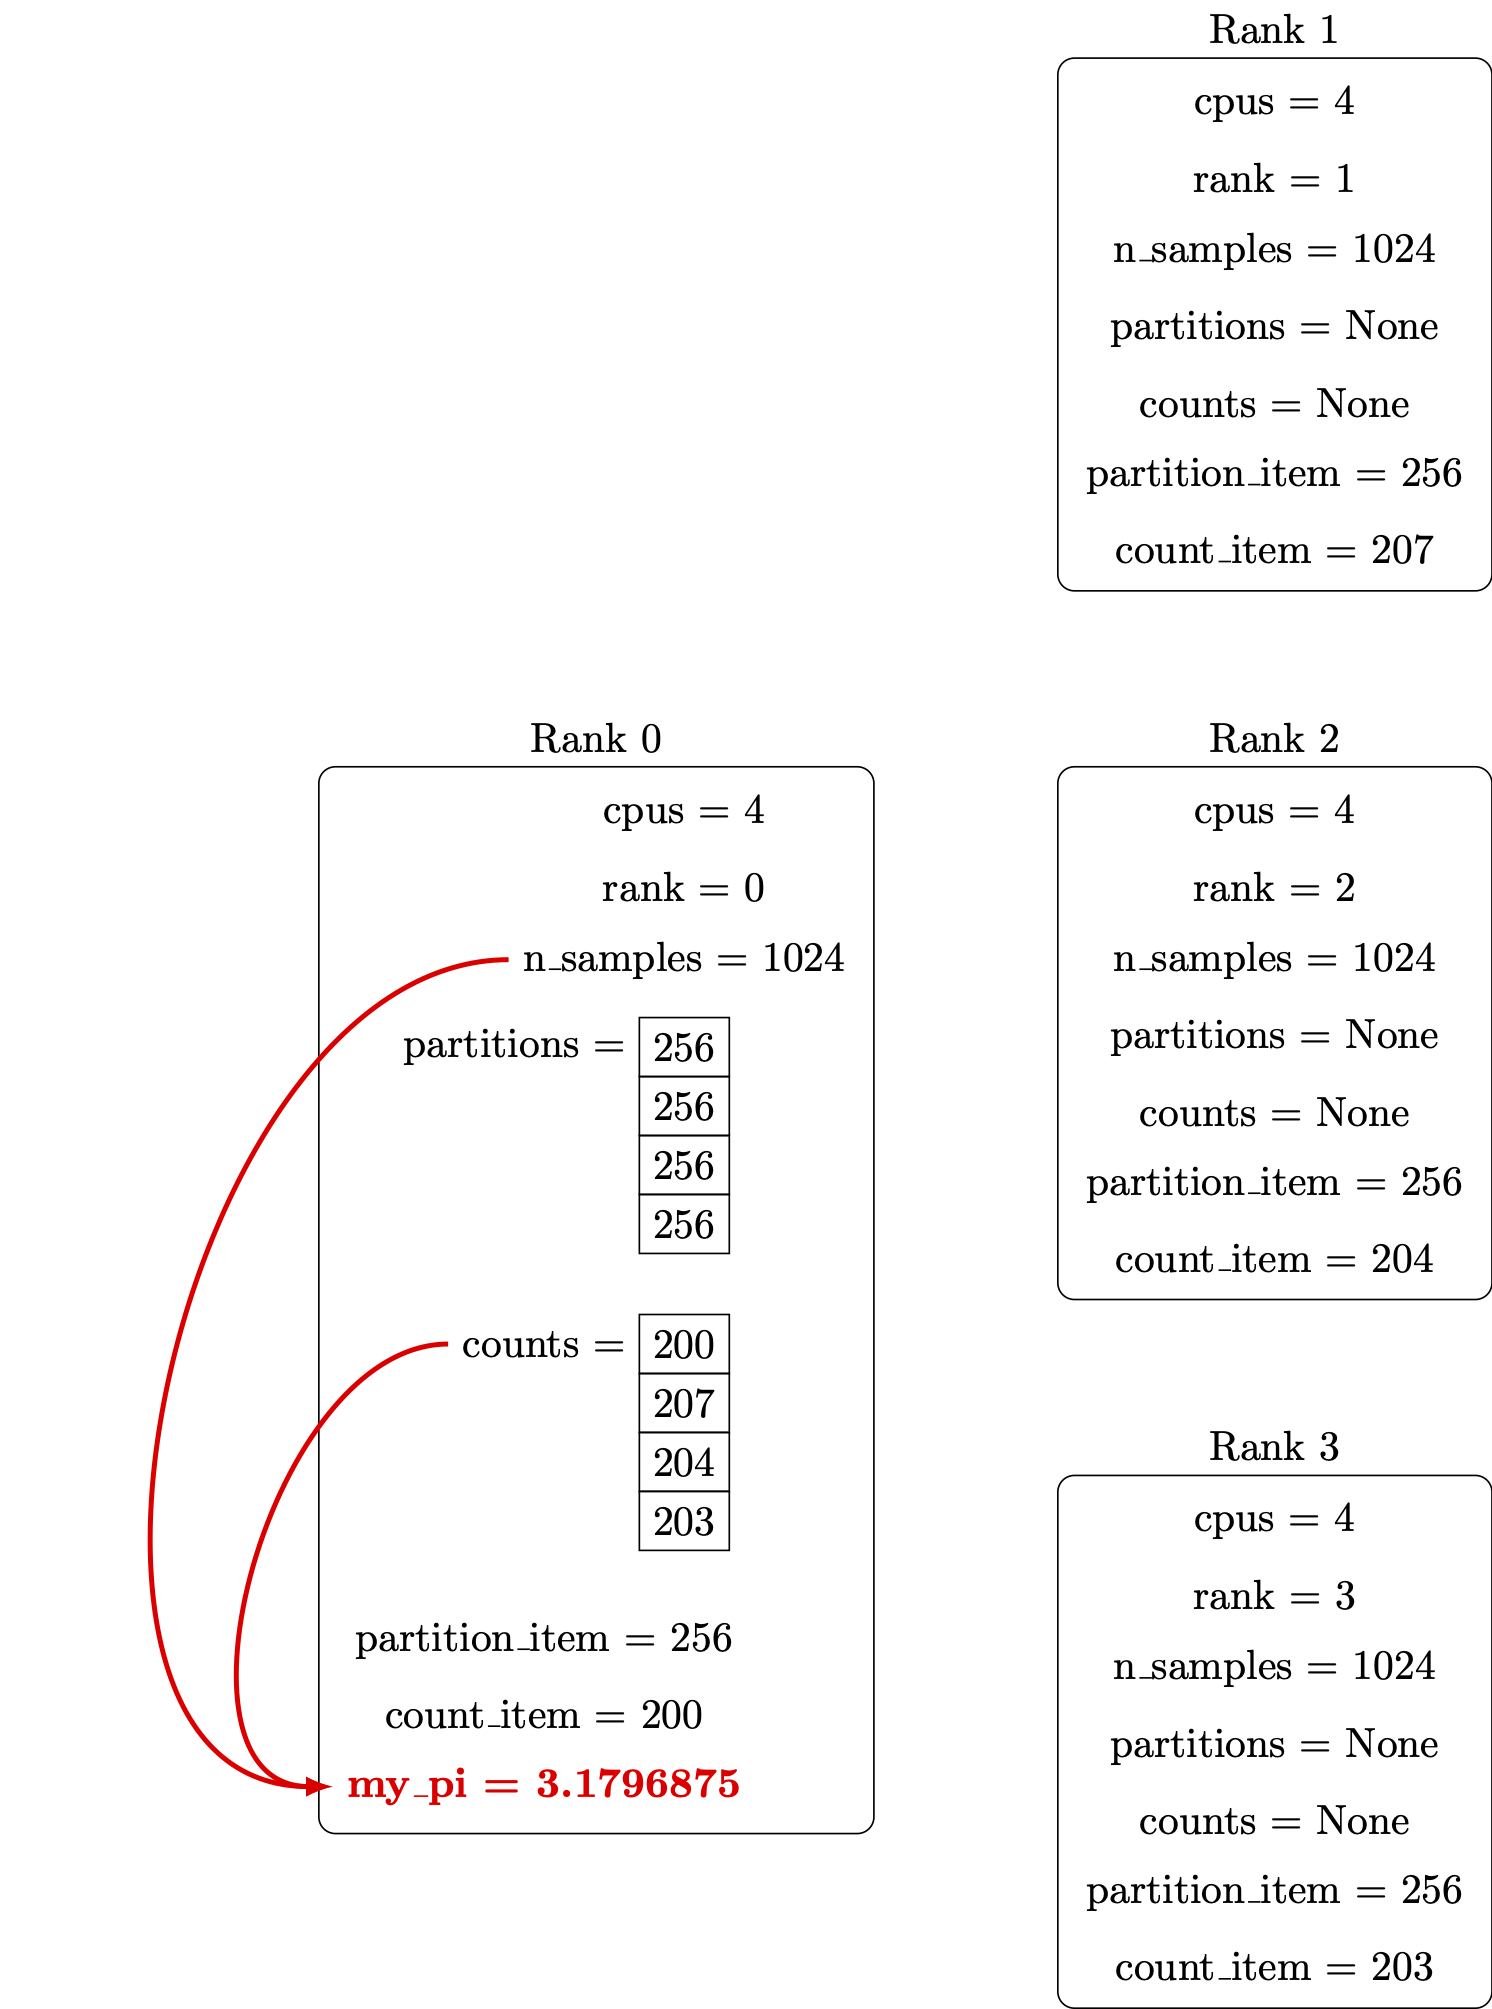
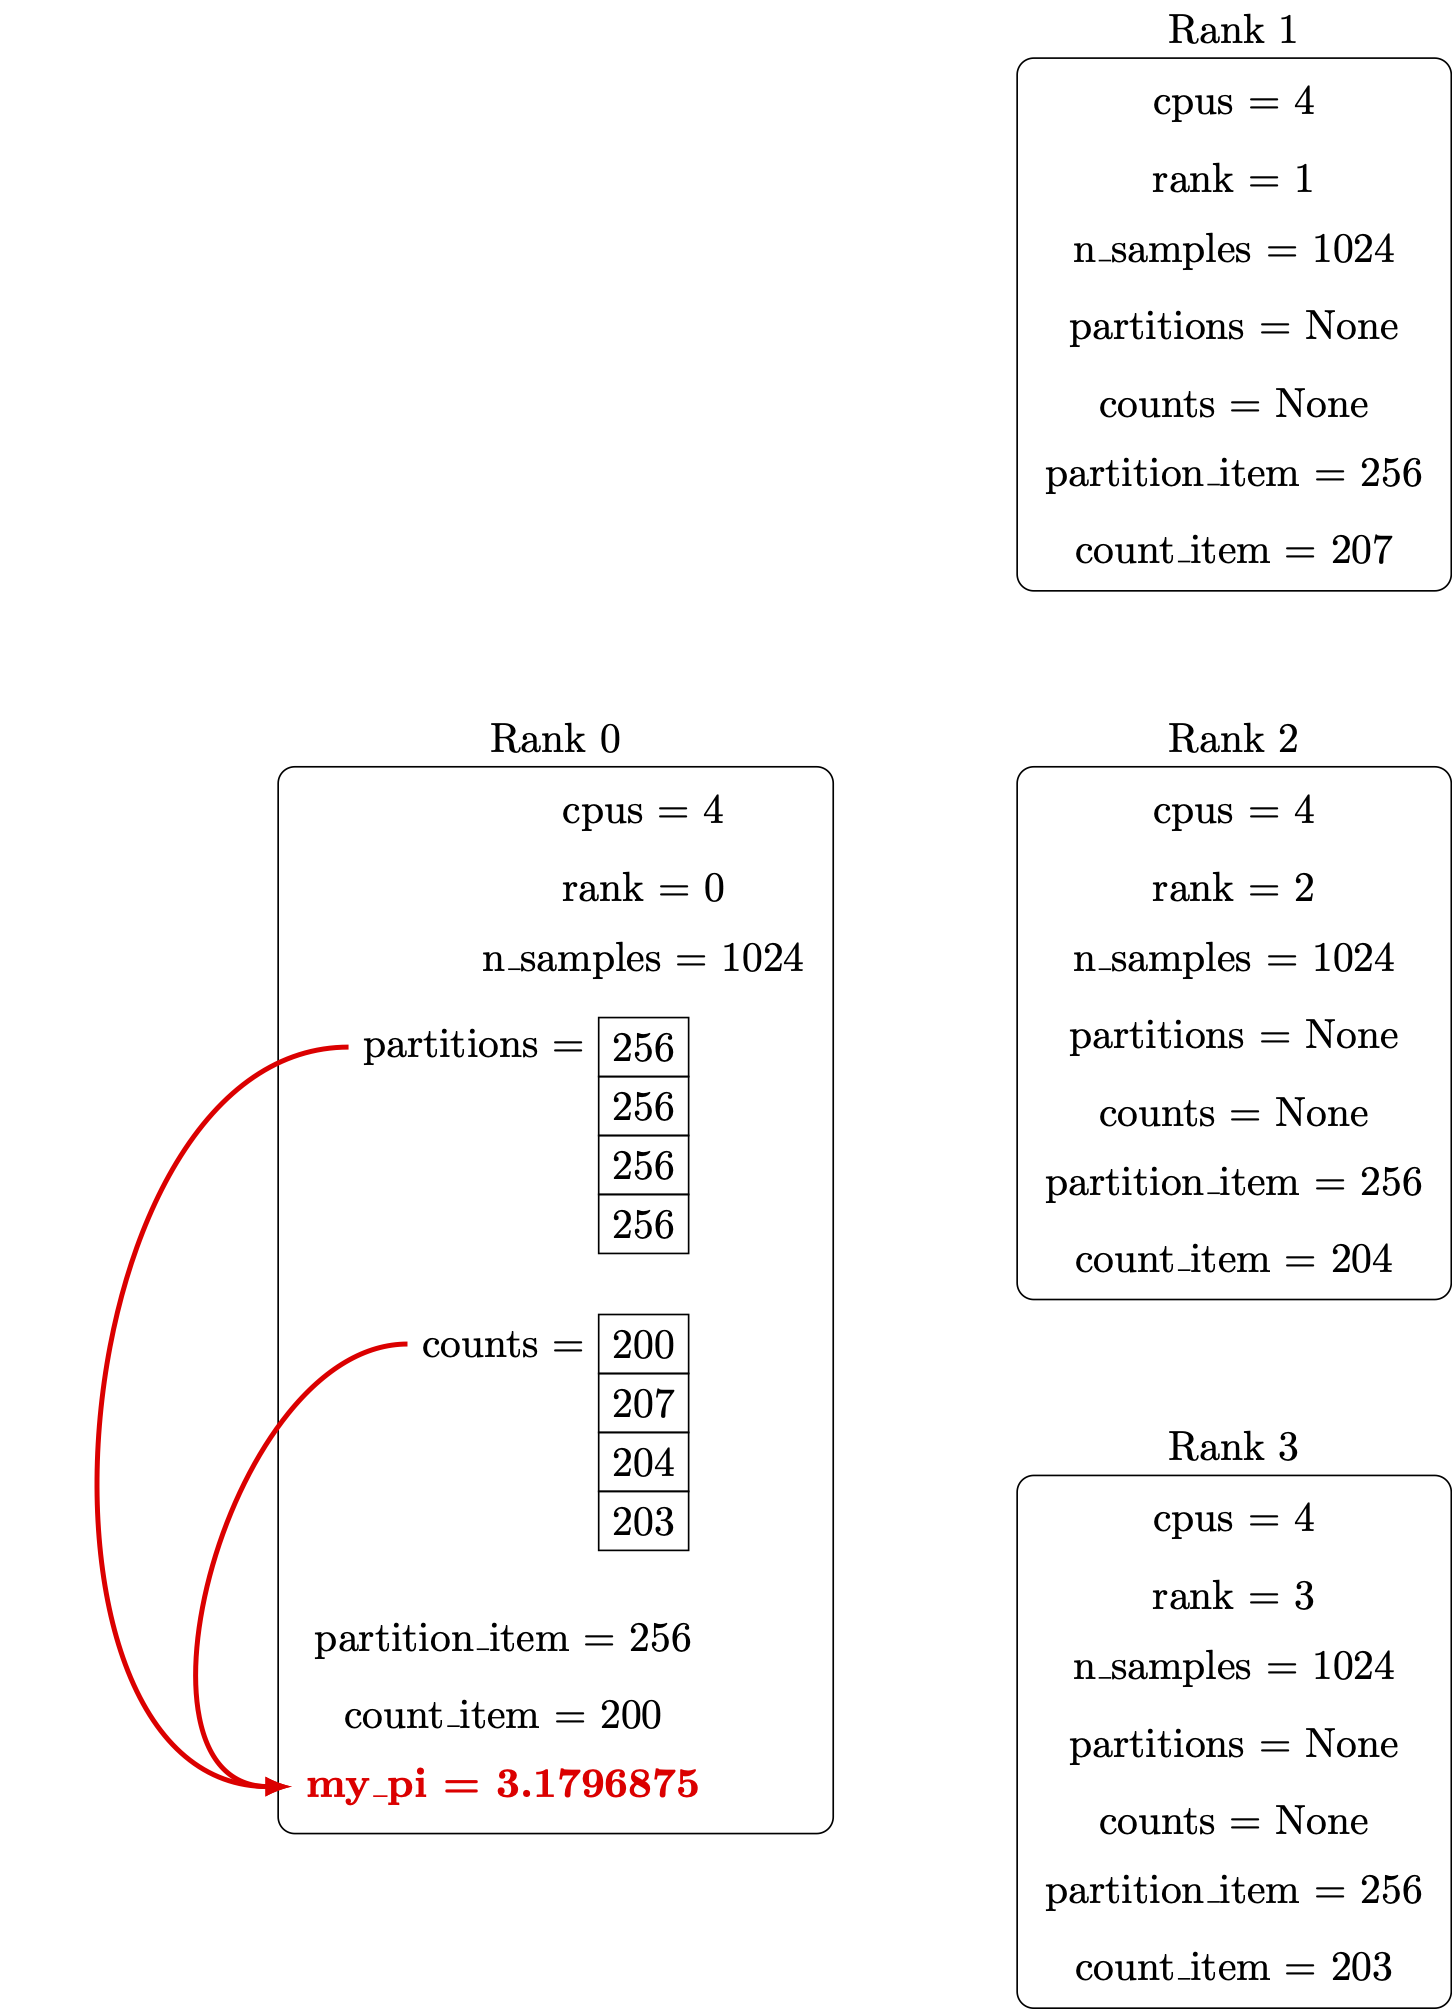
Minimizing and correcting MPI calculations

diff --git a/files/initialize-scatter-compute-gather.tex b/files/initialize-scatter-compute-gather.tex
@@ -55,7 +55,7 @@
 \newcommand{\drawarrows}{}
 }
 
-% Scatter 1
+% Scatter
 %\newcommand{\setstate}{
 %\newcommand{\countstyle}{}
 %\newcommand{\countszero}{0}
@@ -82,36 +82,6 @@
 %  \draw[red, line, arrow, out=0, in=180] (partitions01) to (partitionitem1);
 %  \draw[red, line, arrow, out=0, in=180] (partitions02) to (partitionitem2);
 %  \draw[red, line, arrow, out=0, in=180] (partitions03) to (partitionitem3);
-%}
-%}
-
-% Scatter 2
-%\newcommand{\setstate}{
-%\newcommand{\countstyle}{}
-%\newcommand{\countszero}{0}
-%\newcommand{\countsone}{0}
-%\newcommand{\countstwo}{0}
-%\newcommand{\countsthree}{0}
-%\newcommand{\showpi}{}
-%\newcommand{\pistyle}{}
-%\newcommand{\pizero}{\partition}
-%\newcommand{\pione}{\partition}
-%\newcommand{\pitwo}{\partition}
-%\newcommand{\pithree}{\partition}
-%\newcommand{\showci}{}
-%\newcommand{\cistyle}{new}
-%\newcommand{\cizero}{\countszero}
-%\newcommand{\cione}{\countsone}
-%\newcommand{\citwo}{\countstwo}
-%\newcommand{\cithree}{\countsthree}
-%\newcommand{\showmypi}{\phantom}
-%\newcommand{\mypistyle}{}
-%\newcommand{\mypi}{None}
-%\newcommand{\drawarrows}{
-%  \draw[red, line, arrow, out=200, in=180] (counts00) to (countitem0);
-%  \draw[red, line, arrow, out=0, in=180] (counts01) to (countitem1);
-%  \draw[red, line, arrow, out=0, in=180] (counts02) to (countitem2);
-%  \draw[red, line, arrow, out=0, in=180] (counts03) to (countitem3);
 %}
 %}
 
@@ -195,7 +165,7 @@
 %\newcommand{\mypi}{3.1796875}
 %\newcommand{\drawarrows}{
 %  \draw[red, line, arrow, out=180, in=180] (counts0start) to (mypi);
-%  \draw[red, line, arrow, out=180, in=180] (nsamples0) to (mypi);
+%  \draw[red, line, arrow, out=180, in=180] (partitions0start) to (mypi);
 %}
 %}
 

diff --git a/files/pi-mpi-minimal.py b/files/pi-mpi-minimal.py
@@ -22,9 +22,8 @@ if __name__ == '__main__':
         partitions = None
         counts = None
     partition_item = comm.scatter(partitions, root=0)
-    count_item = comm.scatter(counts, root=0)
     count_item = inside_circle(partition_item)
     counts = comm.gather(count_item, root=0)
     if rank == 0:
-        my_pi = 4.0 * sum(counts) / n_samples
+        my_pi = 4.0 * sum(counts) / sum(partitions)
         print(my_pi)
